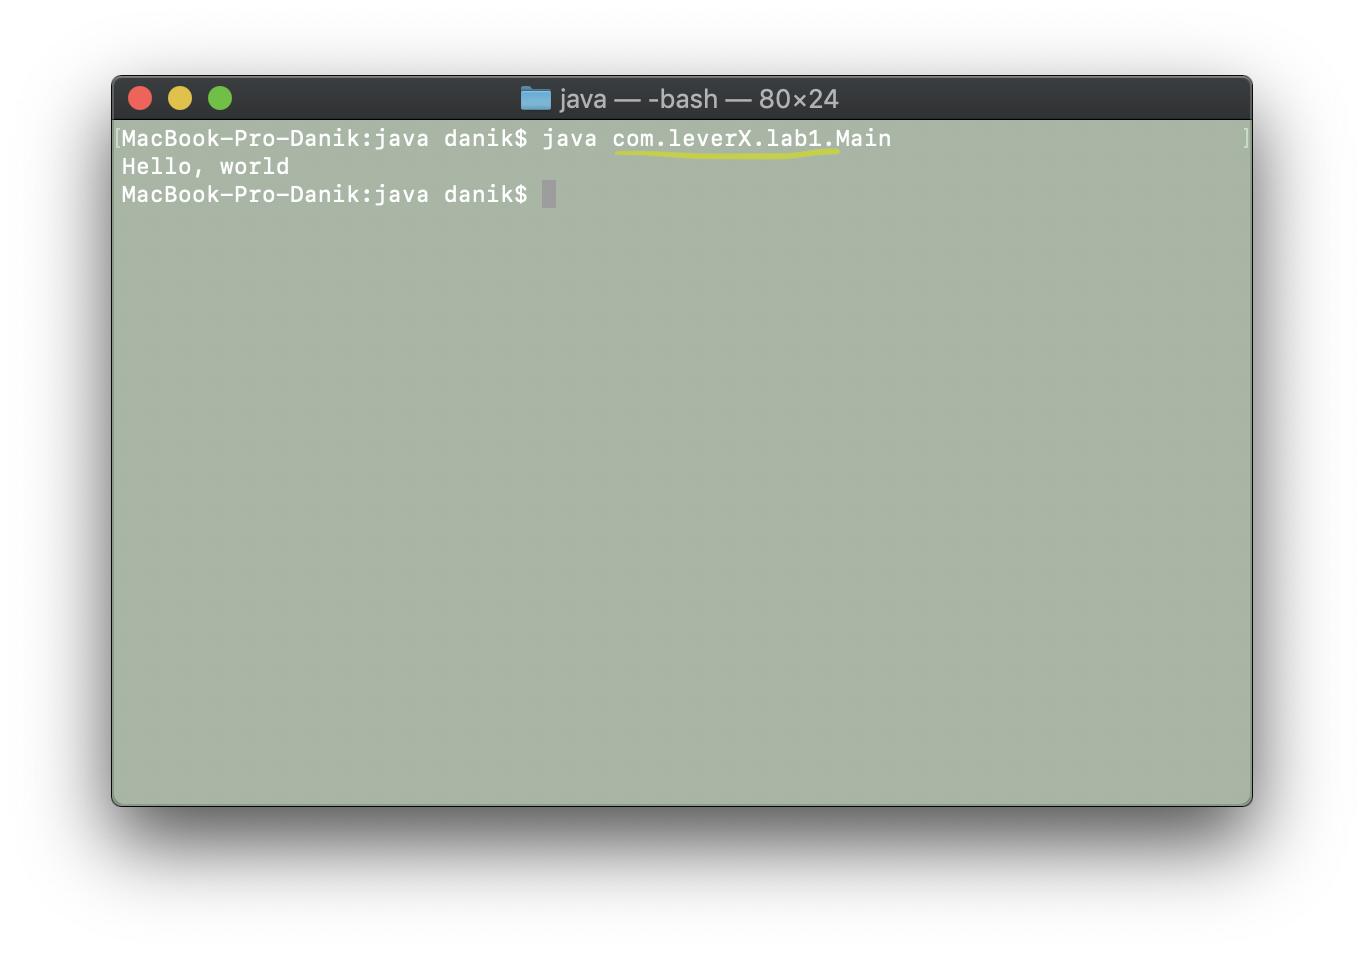
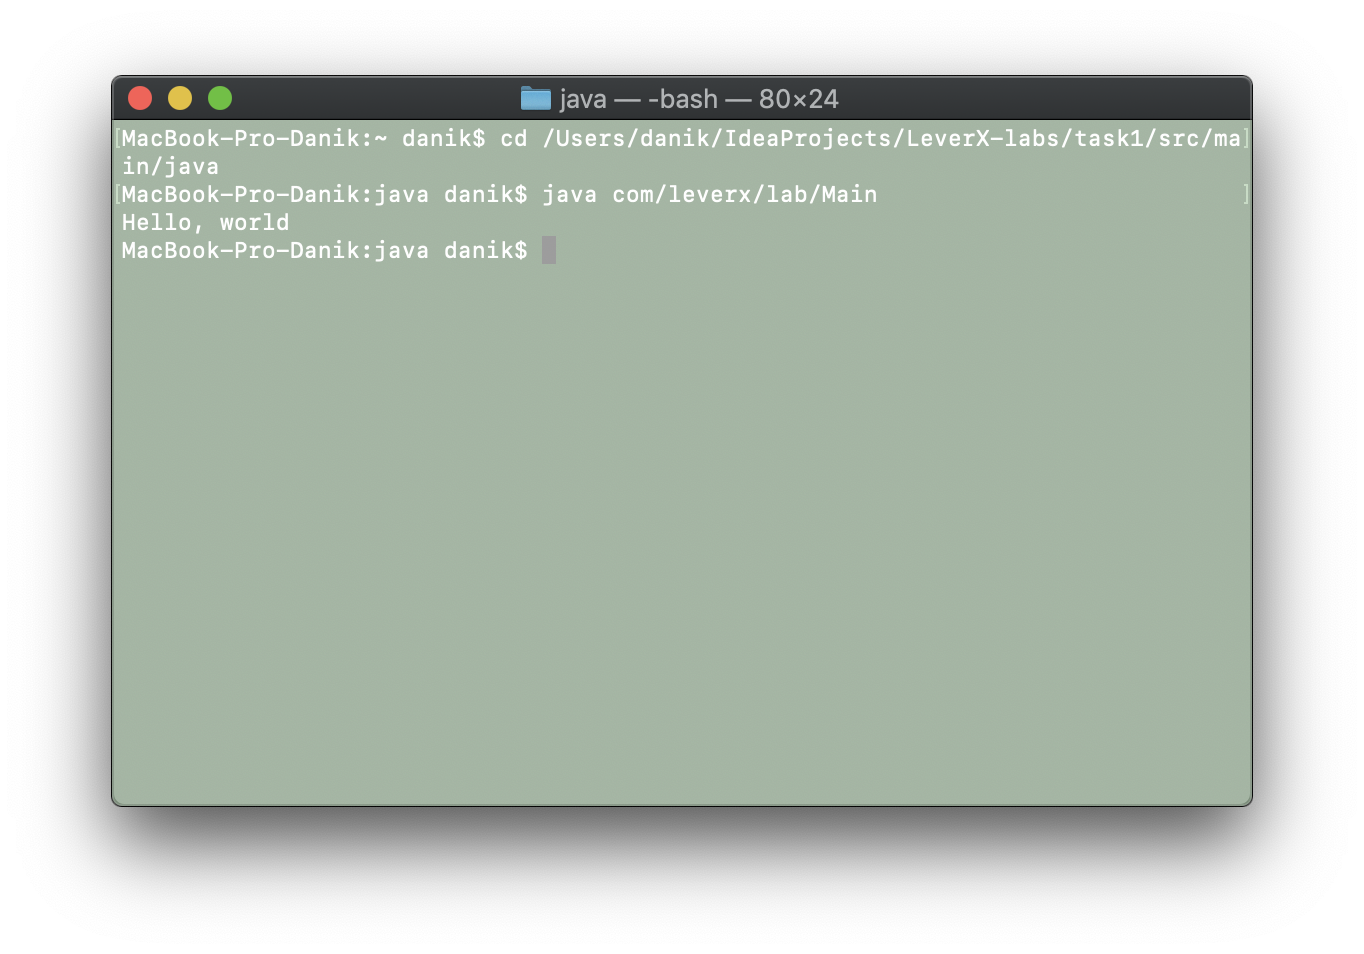
changed packages

Changed region(s): [[0.2771, 0.1216, 0.9238, 0.2128], [0.0924, 0.2128, 0.4311, 0.2736], [0.0924, 0.152, 0.2155, 0.1824]]

diff --git a/task1/README.md b/task1/README.md
@@ -1,34 +1,26 @@
-# Инструкция по сборке:
-## Создание .class и запуск с помощью javac
-* для того, чтобы создать файл с расширенинем `.class`, мы используем javac:
-* В терминале зайти в папку с файлом `Main.java` и выполнить команду *javac Main.java*
-это простейшая компиляция без занесения в директорию `target`
+# Instruction for building:
+## Creation .class and running with java
+* For creation  `.class`, we use javac:
+* In terminal from directory with `Main.java` file use command *javac Main.java*
 
 ![alt text](img/1.png)
 
-* Мы можем запустить программу из конcоли с помощью команды `java package1.package2.package3.Main` из `!!!`родительского каталога`!!!`
+* We can run this program from console with `java package1.package2.package3.Main` command from root directory.
 ![alt text](img/2.png)
 
-## Создание .jar и запуск из консоли
-*  Затем необходимо в родительском каталоге создать `.jar` c добавлением файла класса `package1/package2/package3/*.class`.
-Но для того, чтоб всё работало, нам необходимо задать `Main-Class` в `MANIFEST.MF`. 
-Для этого мы создадим файл `.txt` со строкой, которую мы хотим добавить в `MANIFEST.MF`
+## Building .jar and running this from console
+*  After that we need to build `.jar` in addition to class file `package1/package2/package3/*.class`.
+You must to add `Main-Class` into `MANIFEST.MF` which is located in `META-INF`. 
+For that we can create `.txt` file with line that contains `Main-Class` which we need to add to `MANIFEST.MF`.
 
 ![alt text](img/3.png)
-    `обязательно файл должен заканчиваться переходом на новую строку, иначе не будет работать.`
+    `file should be ended with new line`
 ![alt text](img/4.png)
 
-* после того, как мы всё подготовили, мы можем создать `.jar` в родительском каталоге с помощью команды `jar cfm main.jar manifest.txt com/leverX/lab1/*.class`, 
-которая создаст джарник и сделает слияние содержимого файла `manifest.txt` с `MANIFEST.MF`
+* We can create `.jar` int root directory with `jar cfm main.jar manifest.txt com/leverX/lab1/*.class` command
+which will create new jar with merged line from `manifest.txt` with `MANIFEST.MF`.
+* And than run it from terminal
 
 ![alt text](img/5.png)
 
-* Содержимое джарника можно посмотреть с помощью команды `jar xf main.jar`, и там залезть в `META-INF`
-* После создания джарника с указанием всего необходимого мы  можем запустить программу из родительской директории
-![alt text](img/6.png)
-
-
-
-### Дополнения:
-1. на всякий случай `manifest.txt` добавлен в родительский каталог
-2. в папке `img` лежат изображения-примеры
+* You can see `META-INF` directory with its content by using `jar xf main.jar` command to check if the  file is correct.
